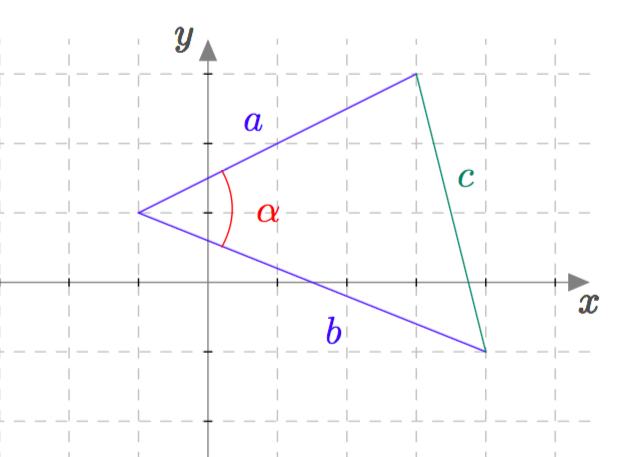
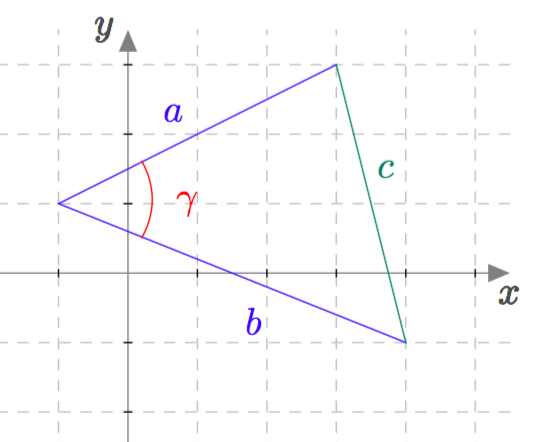
Muokkausta

diff --git a/kurssit/vektorit_versio0/index.html b/kurssit/vektorit_versio0/index.html
@@ -1171,7 +1171,7 @@ Tutkitaan seuraavaksi vektorien välisen kulman ja pistetulon yhteyttä. Vektori
 <p>
 Vektorien välinen kulma voidaan laskea Geometria-kurssista tutun kosinilauseen avulla. Kosinilause on Pythagoraan lauseen yleistys. Pythagoraan lause pätee ainoastaan suorakulmaisille kolmioille, mutta kosinilausetta voi käyttää kaikille kolmioille. Kosinilauseen mukaan alla olevan kuvan kolmiossa 
 $$
-c^2=a^2+b^2-2ab \cos \alpha.
+c^2=a^2+b^2-2ab \cos \gamma.
 $$
 </p>
 
